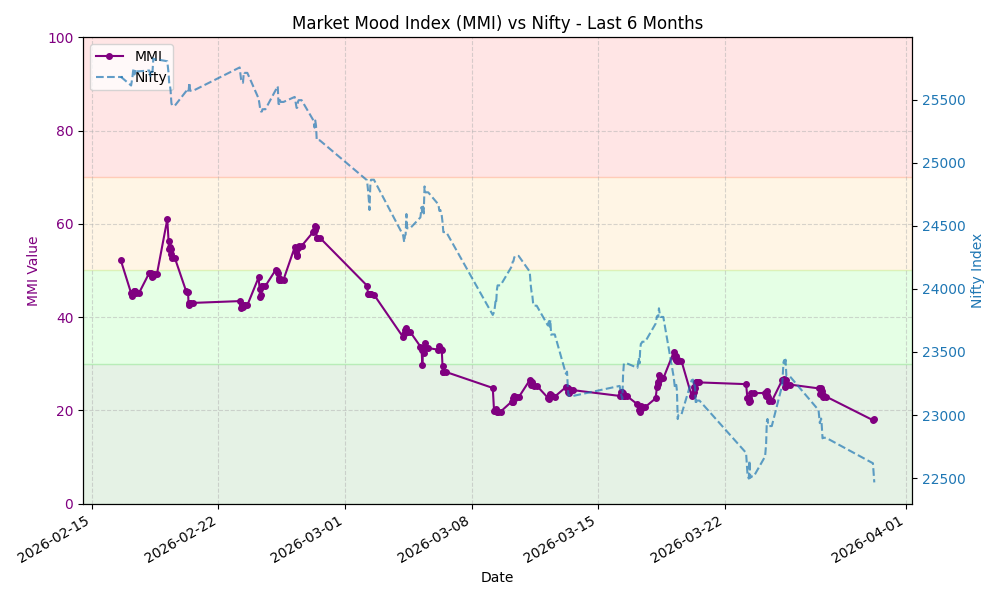
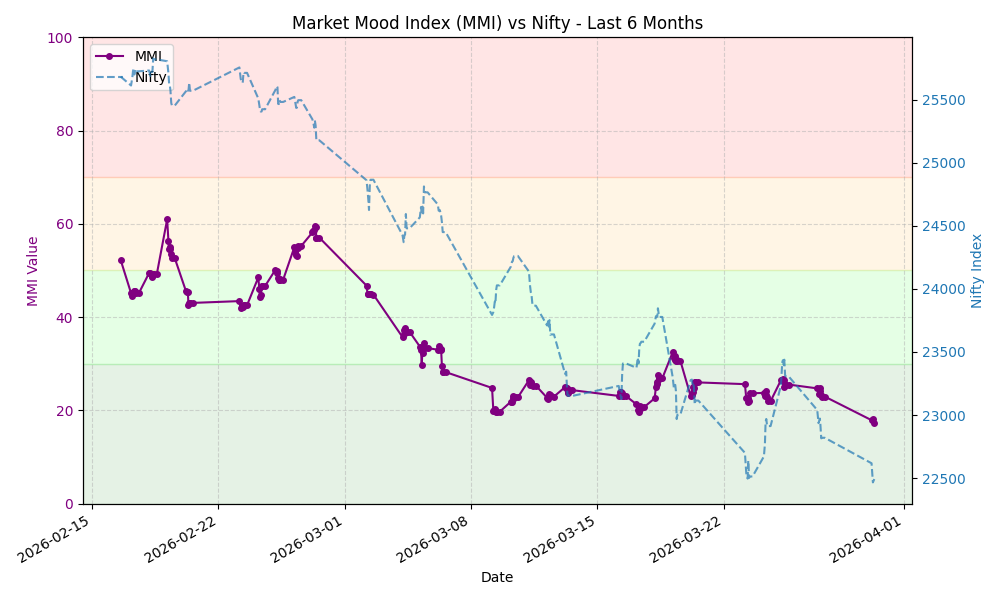
Update MMI data and chart

diff --git a/README.md b/README.md
@@ -7,8 +7,8 @@ This repository automatically fetches the MMI value, stores the history, and gen
 
 ## Latest MMI Value
 
-**18.22** - **Extreme Fear**
-<small>Last Updated: 2026-03-30 06:21 UTC</small>
+**17.29** - **Extreme Fear**
+<small>Last Updated: 2026-03-30 08:12 UTC</small>
 
 ## MMI Trend (Last 30 Days)
 
